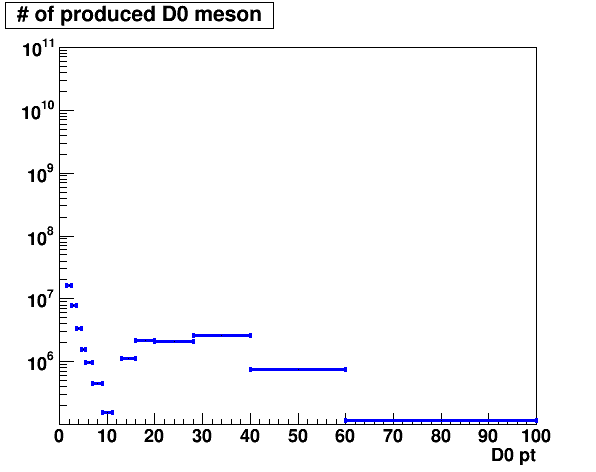
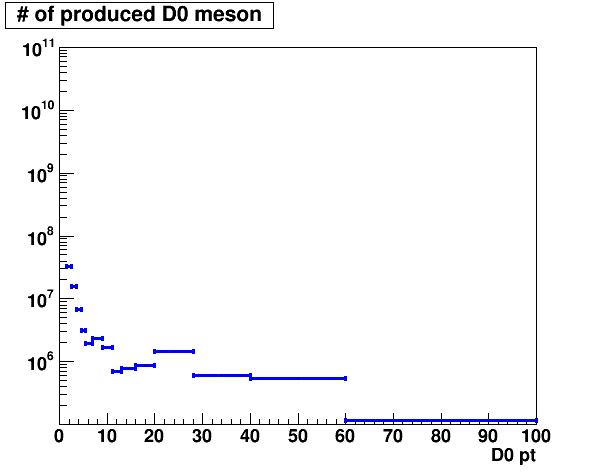
update pp prescale

diff --git a/Dmeson/calWeightedPrescale.C b/Dmeson/calWeightedPrescale.C
@@ -1,0 +1,39 @@
+#include "../Bmeson/Bplusdsigmadpt_1ptbins.h"
+#include "iostream"
+void calWeightedPrescale(){
+    string fonlldata="../fonllData/D_pp_pt_rap24_5p5_pt0to200.dat";
+    double diffXsec1 = 0;
+    double diffXsec2 = 0;
+    double diffXsec3 = 0;
+    Bplusdsigmadpt_1ptbins(false, diffXsec1, 7, 8, fonlldata);
+    Bplusdsigmadpt_1ptbins(false, diffXsec2, 8, 9, fonlldata);
+    Bplusdsigmadpt_1ptbins(false, diffXsec3, 7, 9, fonlldata);
+	diffXsec1=diffXsec1*1;
+	diffXsec2=diffXsec2*1;
+	diffXsec3=diffXsec3*2;
+	cout<<diffXsec3/((diffXsec1/750)+(diffXsec2/140))<<endl;
+
+    Bplusdsigmadpt_1ptbins(false, diffXsec1, 13, 15, fonlldata);
+    Bplusdsigmadpt_1ptbins(false, diffXsec2, 15, 16, fonlldata);
+    Bplusdsigmadpt_1ptbins(false, diffXsec3, 13, 16, fonlldata);
+	diffXsec1=diffXsec1*2;
+	diffXsec2=diffXsec2*1;
+	diffXsec3=diffXsec3*3;
+	cout<<diffXsec3/((diffXsec1/140)+(diffXsec2/33))<<endl;
+
+    Bplusdsigmadpt_1ptbins(false, diffXsec1, 28, 30, fonlldata);
+    Bplusdsigmadpt_1ptbins(false, diffXsec2, 30, 40, fonlldata);
+    Bplusdsigmadpt_1ptbins(false, diffXsec3, 28, 40, fonlldata);
+	diffXsec1=diffXsec1*2;
+	diffXsec2=diffXsec2*10;
+	diffXsec3=diffXsec3*12;
+	cout<<diffXsec3/((diffXsec1/10)+(diffXsec2/5))<<endl;
+
+    Bplusdsigmadpt_1ptbins(false, diffXsec1, 40, 50, fonlldata);
+    Bplusdsigmadpt_1ptbins(false, diffXsec2, 50, 60, fonlldata);
+    Bplusdsigmadpt_1ptbins(false, diffXsec3, 48, 60, fonlldata);
+	diffXsec1=diffXsec1*10;
+	diffXsec2=diffXsec2*10;
+	diffXsec3=diffXsec3*20;
+	cout<<diffXsec3/((diffXsec1/5)+(diffXsec2/1))<<endl;
+}

diff --git a/Dmeson/PlotXsec_ppPrescale.cc b/Dmeson/PlotXsec_ppPrescale.cc
@@ -39,7 +39,9 @@ void PlotXsec_ppPrescale(){
 	double effD[BINS] = {0.0004110786, 0.004868644, 0.01467014, 0.03677896, 0.07008137, 0.1185297, 0.1670131, 0.2038537, 0.2419492, 0.2935908, 0.3535325, 0.4175788, 0.4175788, 0.4175788};
 	double effDerr[BINS] = {8.195642e-05, 0.0004130658 , 0.0009189658, 0.001791014, 0.002483458, 0.003386794, 0.004592759, 0.005642633, 0.005676826, 0.006227245, 0.00599039, 0.007349736, 0.007349736, 0.007349736};
 	double ratioDataDrivenVSFONLL[BINS] = {1.671,1.629,1.535,1.471,1.382,1.257,1.148,1.098,1.117,1.117,1.117,1.117,1.117,1.117};
-	double HLTprescale2015[BINS] = {1500., 1500., 1500., 1500., 1500., 1500., 1500., 1500., 54.63, 13., 7., 1.39, 1., 1.};//using weighted prescale
+	// <8: 755, 8~15: 140, 15~20: 33, 20~30:10, 30~50:5, >50:1
+	//double HLTprescale2015[BINS] = {1500., 1500., 1500., 1500., 1500., 1500., 1500., 1500., 54.63, 13., 7., 1.39, 1., 1.};//using weighted prescale
+	double HLTprescale2015[BINS] = {750., 750., 750., 750., 750., 286.308, 140., 140., 79.9987, 33., 10., 5.98408, 1.39243, 1.};//using weighted prescale
 	//double HLTprescale2015[BINS] = {1., 1., 1., 1., 1., 1., 1., 1., 1., 1., 1., 1., 1., 1.};
 	for(int i = 0; i < BINS; i++){
 		Bplusdsigmadpt_1ptbins(false, diffXsec, bins[i], bins[i+1], fonlldata);
